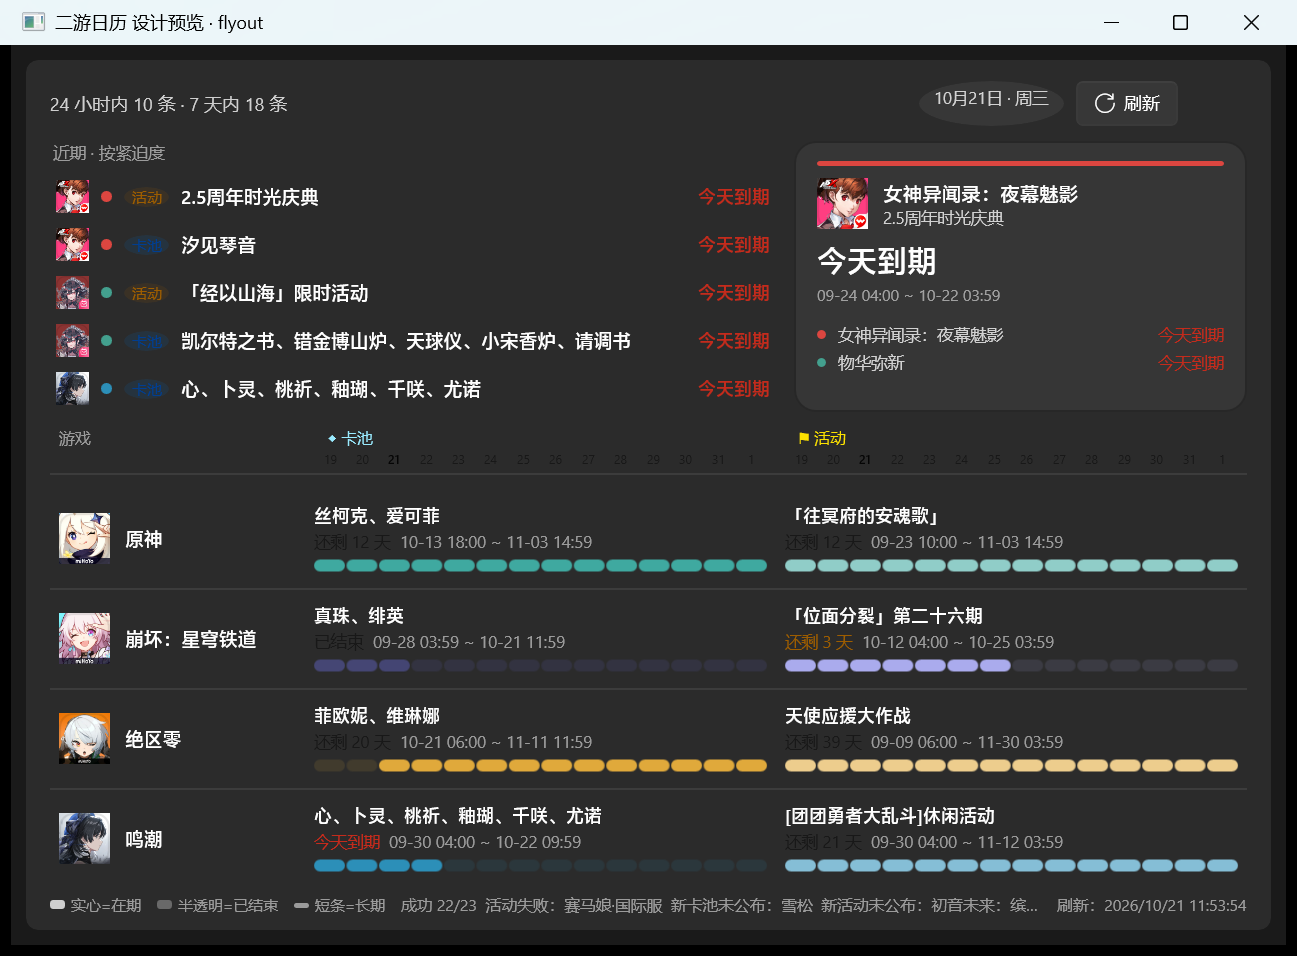
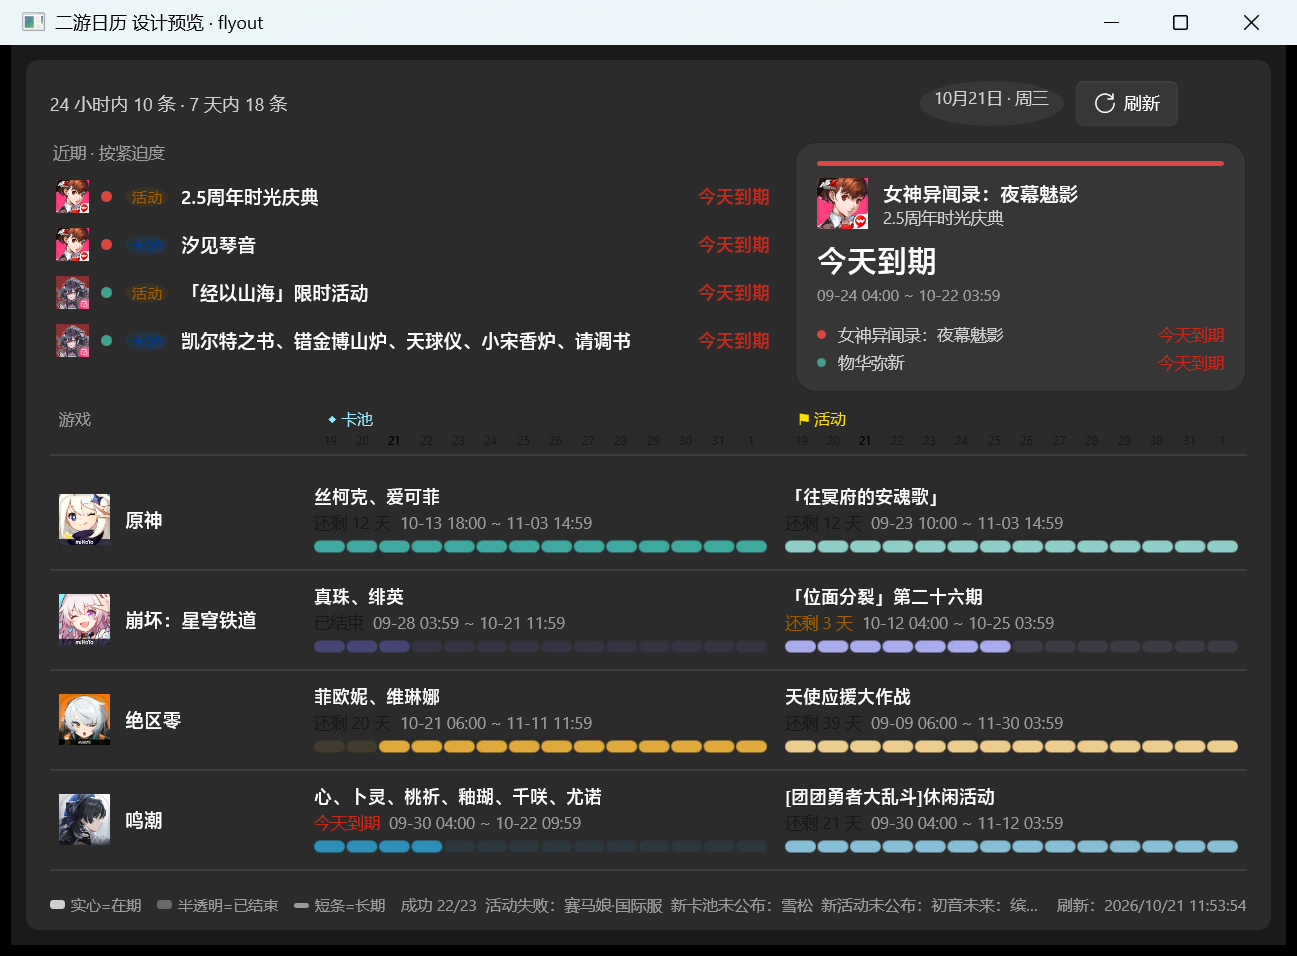
style: v0.1.18 面板密度微调（近期 4 条、下一截止卡完整、表格标题加粗、图例中性色）

diff --git a/src/GachaWidget/Views/FlyoutView.xaml b/src/GachaWidget/Views/FlyoutView.xaml
@@ -78,7 +78,7 @@
         </Grid>
 
         <!-- ② 近期（按紧迫度）+ 下一个截止卡 -->
-        <Grid Grid.Row="1" ColumnSpacing="12" MaxHeight="190">
+        <Grid Grid.Row="1" ColumnSpacing="12" MaxHeight="168">
             <Grid.ColumnDefinitions>
                 <ColumnDefinition Width="1.6*" />
                 <ColumnDefinition Width="1*" />

diff --git a/src/GachaCalendar.Core/ViewModels/WidgetViewModel.cs b/src/GachaCalendar.Core/ViewModels/WidgetViewModel.cs
@@ -1,4 +1,4 @@
-using System.Collections.ObjectModel;
+using System.Collections.ObjectModel;
 using System.ComponentModel;
 using System.Runtime.CompilerServices;
 using GachaCalendar.Core.Models;
@@ -396,7 +396,7 @@ public sealed class WidgetViewModel : INotifyPropertyChanged
 			return;
 		}
 
-		var next = ScheduleBuilder.Build(_feed, _catalog, _settings, now, recentLimit: 5);
+		var next = ScheduleBuilder.Build(_feed, _catalog, _settings, now, recentLimit: 4);
 		if (!ScheduleSnapshot.SameValue(_schedule, next))
 		{
 			Schedule = next;

diff --git a/src/GachaWidget/Plugin/GachaWidgetPlugin.cs b/src/GachaWidget/Plugin/GachaWidgetPlugin.cs
@@ -18,7 +18,7 @@ namespace GachaWidget.Plugin;
 /// </summary>
 public sealed class GachaWidgetPlugin : WidgetPluginBase, IConfigurableWidgetPlugin, IWidgetFlyoutLifecycle
 {
-	private const string PluginVersion = "0.1.17";
+	private const string PluginVersion = "0.1.18";
 	private const string PluginId = "com.eastmg.gachacalendar";
 	private const string PluginName = "二游日历";
 

diff --git a/CHANGELOG.md b/CHANGELOG.md
@@ -2,6 +2,12 @@
 
 格式：每条一行，版本号与 `src/GachaWidget/GachaWidget.csproj` 的 `<Version>` 对应。
 
+## v0.1.18（2026-10-21）
+
+- style: 面板密度微调 —— 「近期」保留 4 条（不裁切、也不抢表格高度），「下一个截止」卡完整显示；
+  表格标题加 SemiBold 强化层级；图例改成中性色 + 图案语义（不再用强调色，避免误读"蓝色=卡池"）。
+- docs: `docs/images/design-flyout.png` 更新为 0.1.18 截图。
+
 ## v0.1.17（2026-10-21）
 
 - feat: **视觉与信息层级重做**（对齐 DSH `newPanel` 日程视图 + WinUI 3 Fluent）：
